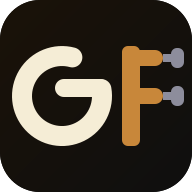
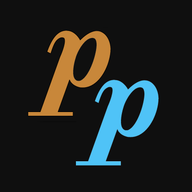
Rebrand app from GuitarFlow to Practice Prodigy
Replace the app name, icons, and PWA metadata throughout: new title,
manifest name/short_name, boot screen, header logo (new PP monogram
icon), and service worker cache namespace (bumped to a fresh
practiceprodigy-v1 cache so existing installs pick up the change).

diff --git a/index.html b/index.html
@@ -6,8 +6,8 @@
   <meta name="theme-color" content="#0F0F0F" />
   <meta name="apple-mobile-web-app-capable" content="yes" />
   <meta name="apple-mobile-web-app-status-bar-style" content="black-translucent" />
-  <meta name="apple-mobile-web-app-title" content="GuitarFlow" />
-  <title>GuitarFlow</title>
+  <meta name="apple-mobile-web-app-title" content="Practice Prodigy" />
+  <title>Practice Prodigy</title>
   <link rel="manifest" href="manifest.json" />
   <link rel="apple-touch-icon" href="icon-180.png" />
   <style>
@@ -31,7 +31,7 @@
   <!-- Boot screen: visible until React mounts. Prevents silent black screen. -->
   <div id="boot" style="position:fixed;inset:0;background:#0F0F0F;display:flex;flex-direction:column;align-items:center;justify-content:center;font-family:system-ui,sans-serif;color:#C8873A;padding:24px;text-align:center;z-index:9999">
     <div style="width:36px;height:36px;border:3px solid #2A2008;border-top-color:#C8873A;border-radius:50%;animation:spin 0.9s linear infinite;margin-bottom:16px"></div>
-    <div id="boot-msg" style="font-size:14px;font-weight:600">Loading GuitarFlow…</div>
+    <div id="boot-msg" style="font-size:14px;font-weight:600">Loading Practice Prodigy…</div>
     <div id="boot-sub" style="font-size:11px;color:#6B5A3A;margin-top:6px">Fetching React</div>
     <pre id="boot-err" style="display:none;margin-top:16px;background:#1A0808;border:1px solid #5A1A1A;border-radius:8px;padding:12px;color:#F87171;font-size:11px;text-align:left;max-width:360px;white-space:pre-wrap;word-break:break-word;max-height:50vh;overflow-y:auto"></pre>
   </div>
@@ -3821,7 +3821,7 @@ function SettingsScreen({
   useEffect(() => {
     if (!editEx && !editCat) return;
     history.pushState({
-      guitarflowEditorOpen: true
+      practiceProdigyEditorOpen: true
     }, "");
     const onPopState = () => {
       setEditEx(null);
@@ -4458,8 +4458,8 @@ function App() {
       gap: 12
     }
   }, /*#__PURE__*/React.createElement("img", {
-    src: "icon.svg",
-    alt: "GuitarFlow",
+    src: "icon-192.png",
+    alt: "Practice Prodigy",
     style: {
       width: 38,
       height: 38,

diff --git a/sw.js b/sw.js
@@ -1,12 +1,11 @@
-// GuitarFlow Service Worker — caches all app files for full offline use.
+// Practice Prodigy Service Worker — caches all app files for full offline use.
 // On first visit the CDN scripts (React) are cached here,
 // so every subsequent visit — even with no internet — works perfectly.
 
-const CACHE = "guitarflow-v5";
+const CACHE = "practiceprodigy-v1";
 const PRECACHE = [
   "./index.html",
   "./manifest.json",
-  "./icon.svg",
   "./icon-180.png",
   "./icon-192.png",
   "./icon-512.png",

diff --git a/guitar-practice-app.jsx b/guitar-practice-app.jsx
@@ -1813,7 +1813,7 @@ function SettingsScreen({ exercises, setExercises, categories, setCategories, vo
   // otherwise leave the app entirely. Trap it here to just close the editor.
   useEffect(() => {
     if (!editEx && !editCat) return;
-    history.pushState({ guitarflowEditorOpen: true }, "");
+    history.pushState({ practiceProdigyEditorOpen: true }, "");
     const onPopState = () => { setEditEx(null); setEditCat(null); };
     window.addEventListener("popstate", onPopState);
     return () => window.removeEventListener("popstate", onPopState);
@@ -2170,7 +2170,7 @@ export default function App() {
       {/* Header */}
       <div style={base.header}>
         <div style={{ display: "flex", alignItems: "center", gap: 12 }}>
-          <img src="icon.svg" alt="GuitarFlow" style={{ width: 38, height: 38, borderRadius: 9, display: "block", flexShrink: 0 }} />
+          <img src="icon-192.png" alt="Practice Prodigy" style={{ width: 38, height: 38, borderRadius: 9, display: "block", flexShrink: 0 }} />
           <div style={{ width: 1, height: 26, background: "#2A2008", flexShrink: 0 }} />
         </div>
         <div style={{ display: "flex", alignItems: "center", gap: 8 }}>

diff --git a/Rewards/badges-data.js b/Rewards/badges-data.js
@@ -1,5 +1,5 @@
 // ─────────────────────────────────────────────────────────────────────────────
-// GuitarFlow — badge text & icons
+// Practice Prodigy — badge text & icons
 // ─────────────────────────────────────────────────────────────────────────────
 // Edit this file to change a badge's name/description (English + French, same
 // "_fr" convention as exercises-data.js), or its icon (shown in the center of

diff --git a/exercises-data.js b/exercises-data.js
@@ -1,5 +1,5 @@
 // ─────────────────────────────────────────────────────────────────────────────
-// GuitarFlow — exercise library data
+// Practice Prodigy — exercise library data
 // ─────────────────────────────────────────────────────────────────────────────
 // Edit this file to change the built-in categories/exercises, or add new ones.
 // It's plain JavaScript — no build step needed. Save the file, then reload the